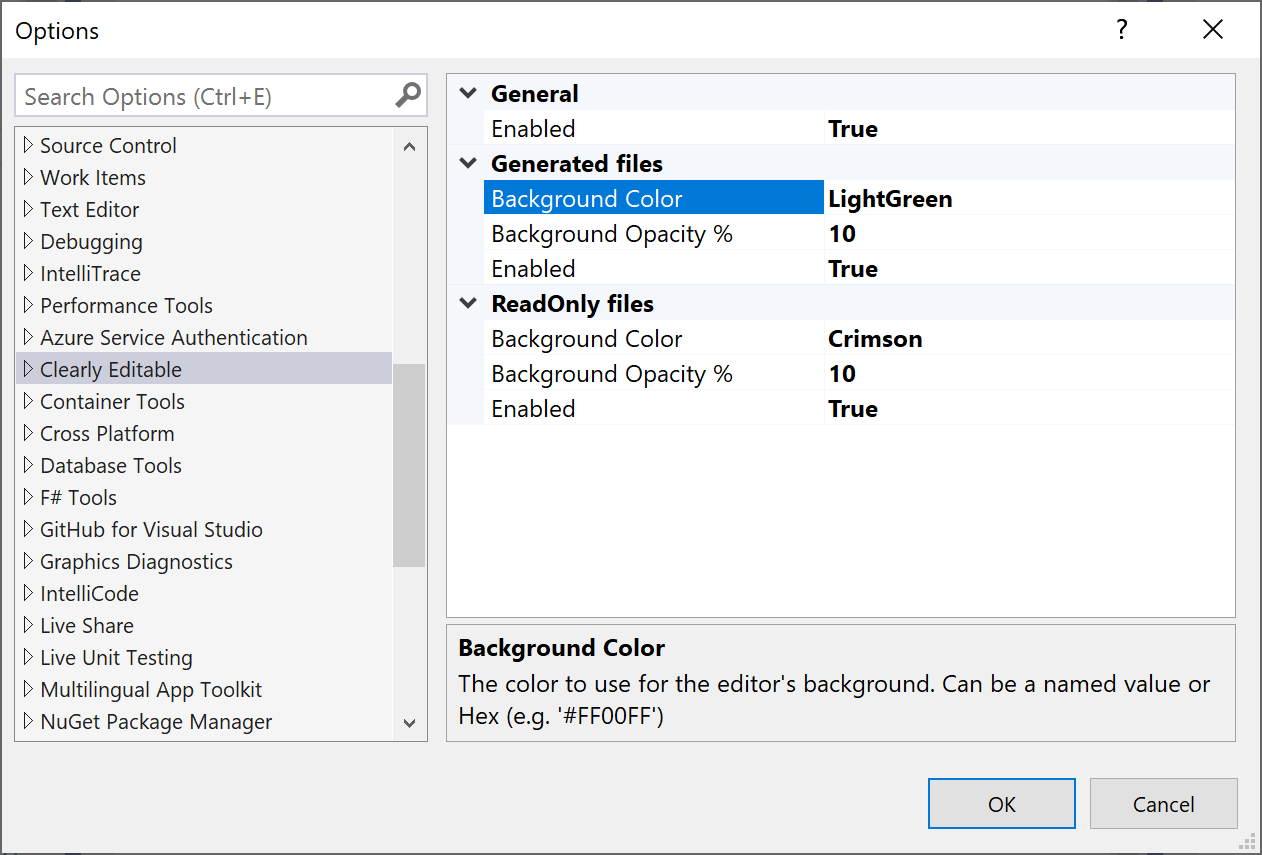
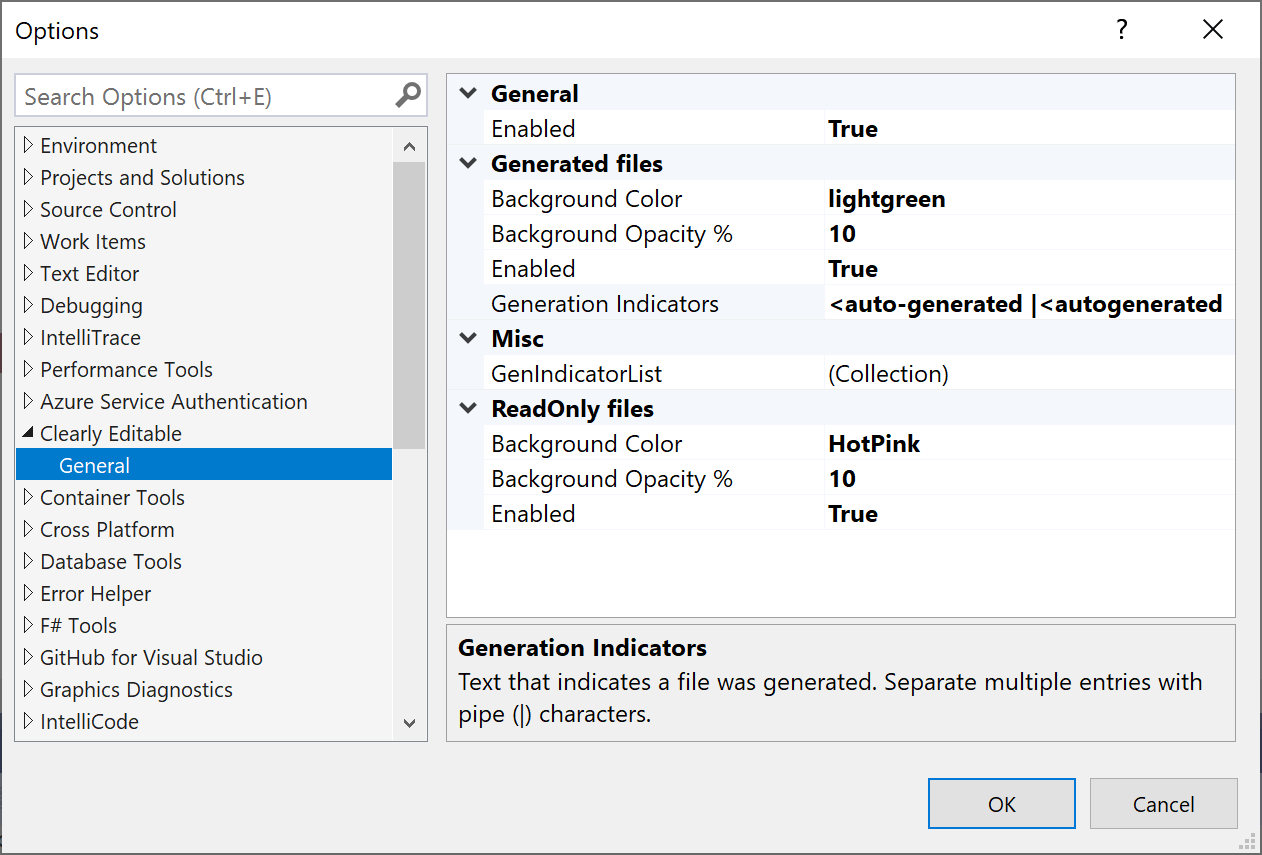
Make the text that indicates autogenerated configurable

diff --git a/src/OptionPageGrid.cs b/src/OptionPageGrid.cs
@@ -2,7 +2,9 @@
 // Licensed under the MIT license.
 
 using System;
+using System.Collections.Generic;
 using System.ComponentModel;
+using System.Linq;
 using Microsoft.VisualStudio.Shell;
 
 namespace ClearlyEditable
@@ -43,6 +45,21 @@ namespace ClearlyEditable
         [DisplayName("Background Opacity %")]
         [Description("The opacity of the background (as a percentage)")]
         public int GeneratedOpacity { get; set; } = 10;
+
+        [Category("Generated files")]
+        [DisplayName("Generation Indicators")]
+        [Description("Text that indicates a file was generated. Separate multiple entries with pipe (|) characters.")]
+        public string GenerationIndicators { get; set; } = "<auto-generated |<autogenerated ";
+
+        public List<string> GenIndicatorList
+        {
+            get
+            {
+                return this.GenerationIndicators.Split(
+                    new[] { '|' },
+                    StringSplitOptions.RemoveEmptyEntries).ToList();
+            }
+        }
 
         protected override void OnApply(PageApplyEventArgs e)
         {

diff --git a/src/MyRunningDocTableEvents.cs b/src/MyRunningDocTableEvents.cs
@@ -118,7 +118,14 @@ namespace ClearlyEditable
                         {
                             var fileContent = System.IO.File.ReadAllText(documentPath);
 
-                            isGenerated = fileContent.Contains("<auto-generated");
+                            foreach (var identifier in this.package.Options.GenIndicatorList)
+                            {
+                                if (fileContent.Contains(identifier))
+                                {
+                                    isGenerated = true;
+                                    break;
+                                }
+                            }
                         }
 
                         if (isGenerated)
